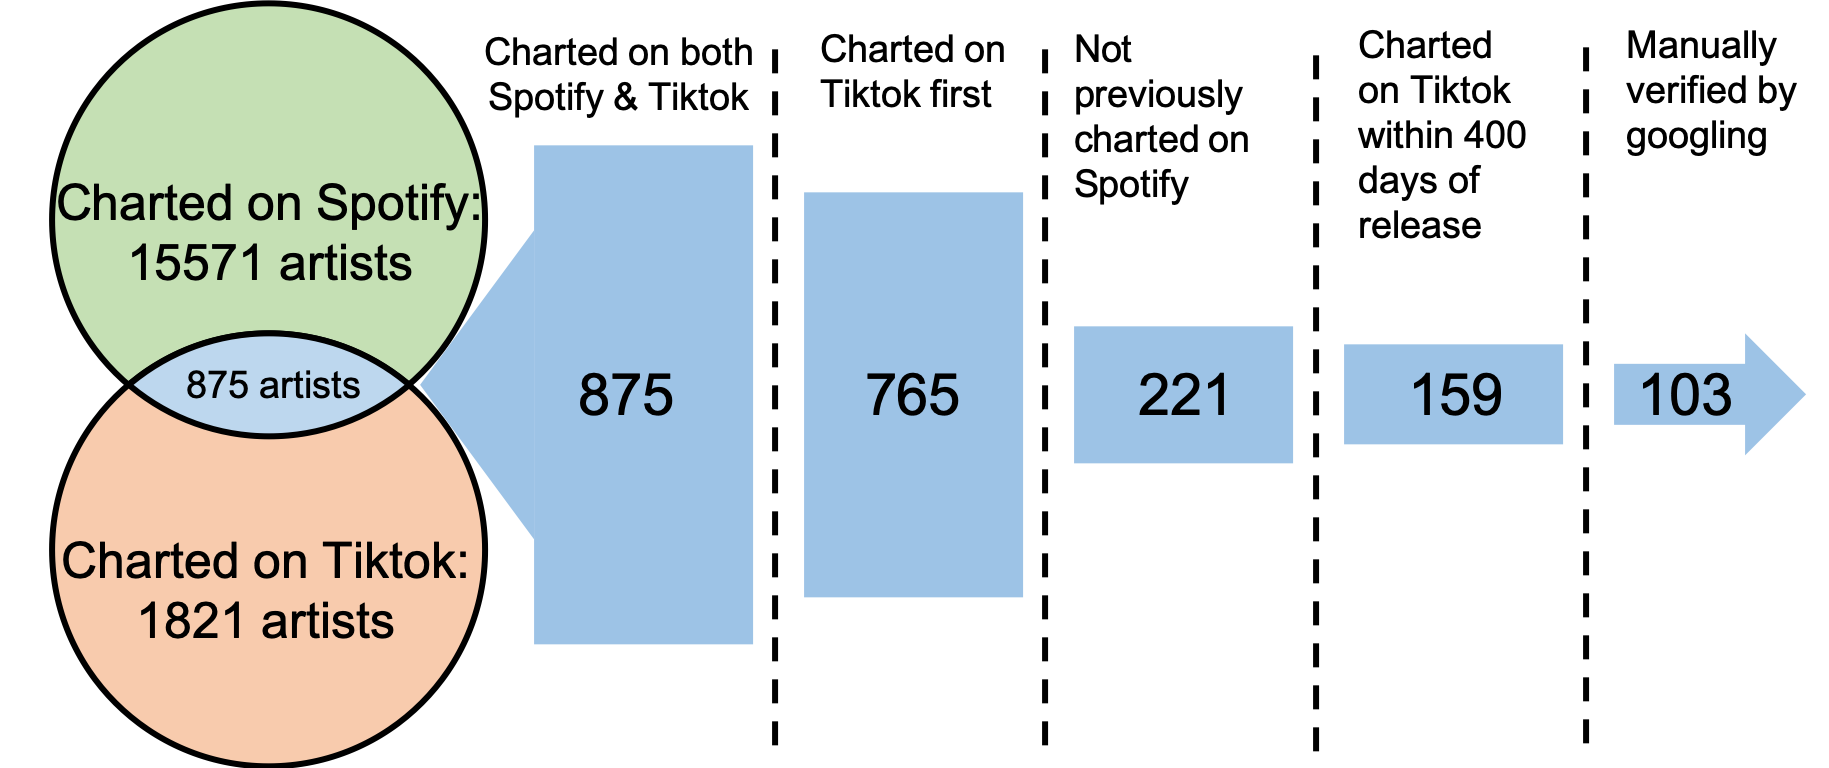
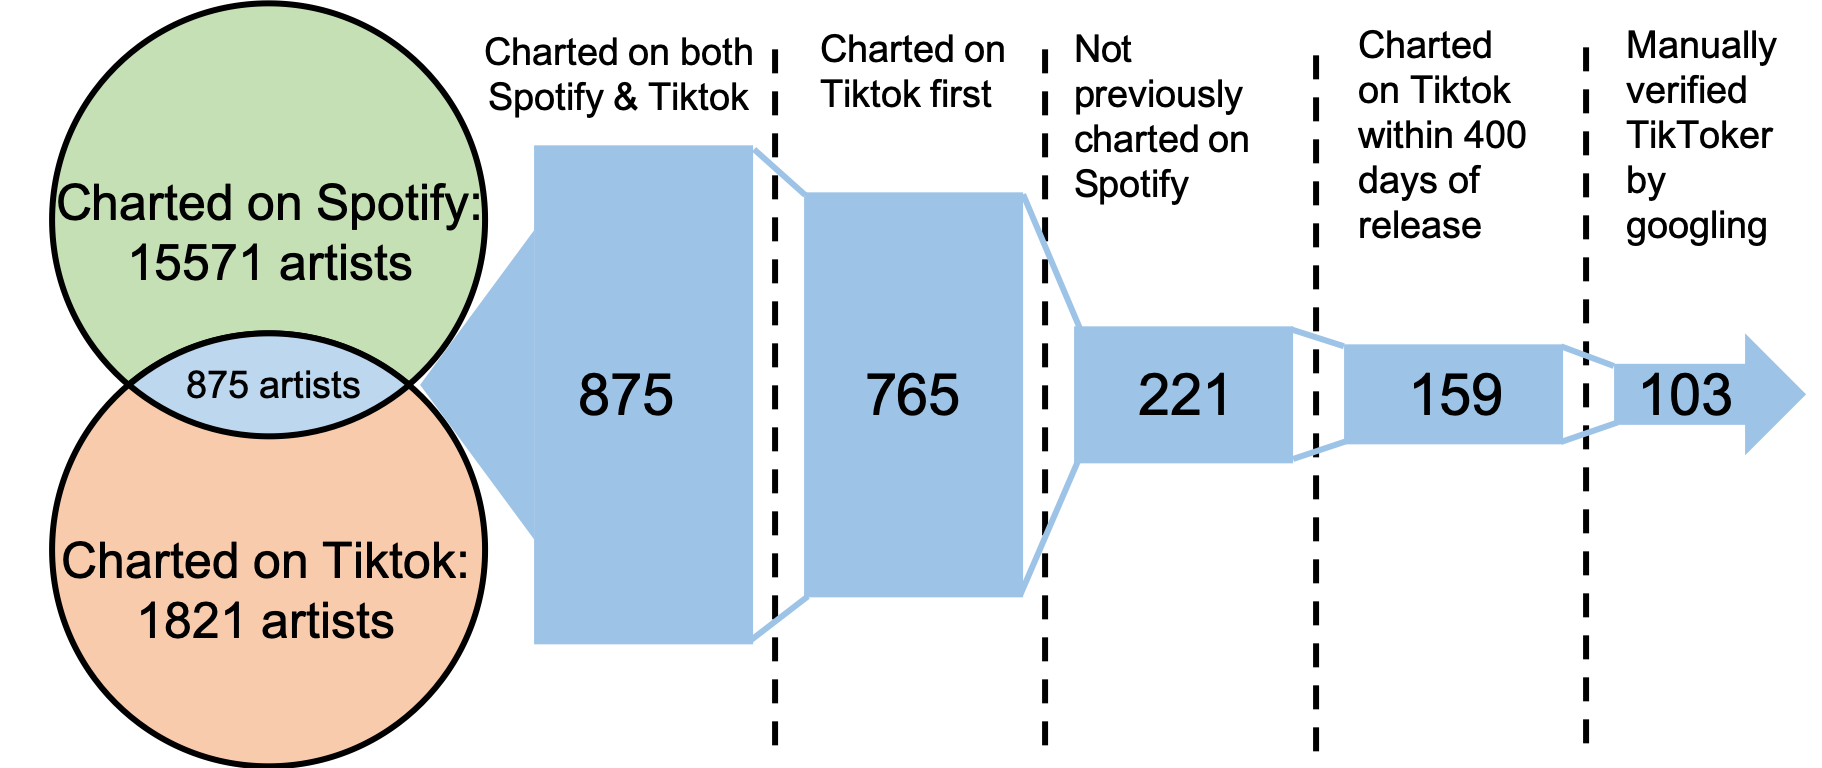
Add plot select artist function
Add function for plotting user selected artist trajectory and edited tiktok_spotify.png

diff --git a/app.py b/app.py
@@ -4,10 +4,12 @@ import plotly.express as px
 from datetime import datetime, timedelta
 
 
+@st.cache
 def plot_matched_artists():
     return plot_trajectories(ca.matched, suffix='spotify')
 
 
+@st.cache
 def plot_nonmatched_artists():
     return plot_trajectories(ca.nonmatched, suffix='spotify')
 
@@ -23,7 +25,7 @@ def plot_trajectories(df, suffix='spotify'):
                       "Rank": "Rank",
                       "Artist": "Artist",
                       "Monthly Listeners Change": "Monthly Listeners",
-                      "Release to Chart Time": "Release to Chart Time",
+                      "Release to Chart Time": "Time from Release to TikTok",
                       "Track": "Track"
                   })
     fig.update_traces(marker={'size': 8})
@@ -35,13 +37,44 @@ def plot_trajectories(df, suffix='spotify'):
 
 
 ca = ChartAnalyzer()
-st.title('Which Tiktokkers will Make it to Spotify?')
-st.text("""To see which artists had their big breaks from Tiktok, I selected artists who charted on both Spotify and Tiktok.""")
+st.title('Which Tiktokkers Made it to Spotify?')
 st.image('tiktok_spotify.png')
-print(ca.rising_tiktok_artists.Artist)
-st.text("""Here is the list of 103 Tiktokkers who made it big on Spotify and their chart rank in time.""")
+st.write("""To see which artists got their big breaks from TikTok, I found artists who both charted on 
+            TikTok and Spotify. I then filtered out \"established artists\" by excluding artists who have 
+            charted on Spotify first before TikTok, artists who have previously charted on Spotify, and artists
+            whose top tracks were released 400 days or more ago before charting on TikTok. After filtration,
+            159 artists were left matching these criteria. Some googling on these 159 artists showed
+            that 103 of them became famous by releasing their songs on TikTok. These 103 TikTokers can be
+            used as examples to build a model for predicting Spotify success. Data used here came from
+            Chartmetric's weekly top TikTok tracks and weekly Spotify top Artists by monthly plays from
+            Apr. 18, 2021 to Aug. 4, 2022.
+        """)
+
+st.subheader('Spotify Trajectories of Rising TikTok Artists')
+st.write("""Shown here are Spotify ranking trajectories of the 103 Tiktokkers after their careers
+            took off on Spotify. Most trajectories show a ballistic rise and fall. Drag to scroll.""")
 fig = plot_matched_artists()
 st.plotly_chart(fig)
-st.text("""Here you can see how any other artist compares in ranking in the same time.""")
+
+st.subheader('Spotify Trajectories of Established Artists')
+st.write("""Shown here are Spotify ranking trajectories of 56 artists who already had established
+            careers before charting on TikTok, but were not eliminated by the filter.
+            Most trajectories show a downward trend, possibly indicating a well-established fan base
+            who follow the artist's newly released songs. Drag to scroll.""")
 fig = plot_nonmatched_artists()
 st.plotly_chart(fig)
+
+st.subheader('Spotify Trajectories of All Artists')
+st.write("""Here you can visualize the Spotify ranking trajectory of some of your favorite artists
+            whose songs are also popular on TikTok, to see how they compare to rising TikTok artists.
+            Drag to scroll.
+""")
+
+artists = ca.merged[~ca.merged.Artist.isin(ca.rising_tiktok_artists.Artist)]
+artists = artists.Artist.sort_values().unique().tolist()
+selection = st.selectbox('Select artist:', artists,
+                         index=artists.index('ABBA'))
+artist = ca.merged[ca.merged.Artist == selection]
+fig = plot_trajectories(artist)
+st.plotly_chart(fig)
+st.write("""Made by Franklin Liou (i02132002b@gmail.com), Aug. 11, 2022.""")
